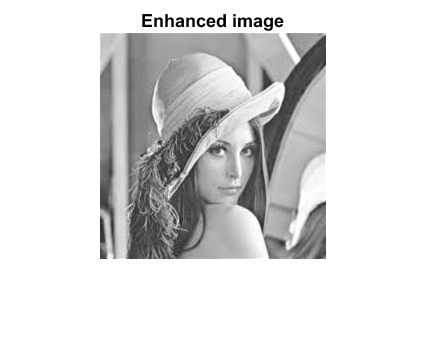
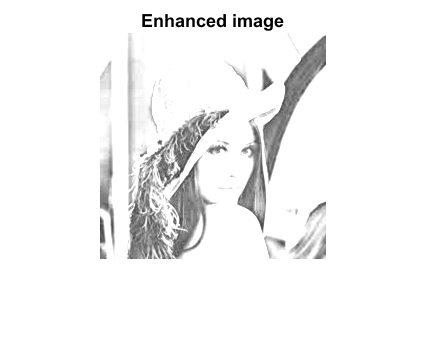
Generate autodoc
Generate new documentation for all functions.

diff --git a/doc/mainPso.html b/doc/mainPso.html
@@ -6,7 +6,7 @@
    <!--
 This HTML was auto-generated from MATLAB code.
 To make changes, update the MATLAB code and republish this document.
-      --><title>mainPso</title><meta name="generator" content="MATLAB 9.0"><link rel="schema.DC" href="http://purl.org/dc/elements/1.1/"><meta name="DC.date" content="2018-12-12"><meta name="DC.source" content="mainPso.m"><style type="text/css">
+      --><title>mainPso</title><meta name="generator" content="MATLAB 9.0"><link rel="schema.DC" href="http://purl.org/dc/elements/1.1/"><meta name="DC.date" content="2018-12-13"><meta name="DC.source" content="mainPso.m"><style type="text/css">
 html,body,div,span,applet,object,iframe,h1,h2,h3,h4,h5,h6,p,blockquote,pre,a,abbr,acronym,address,big,cite,code,del,dfn,em,font,img,ins,kbd,q,s,samp,small,strike,strong,sub,sup,tt,var,b,u,i,center,dl,dt,dd,ol,ul,li,fieldset,form,label,legend,table,caption,tbody,tfoot,thead,tr,th,td{margin:0;padding:0;border:0;outline:0;font-size:100%;vertical-align:baseline;background:transparent}body{line-height:1}ol,ul{list-style:none}blockquote,q{quotes:none}blockquote:before,blockquote:after,q:before,q:after{content:'';content:none}:focus{outine:0}ins{text-decoration:none}del{text-decoration:line-through}table{border-collapse:collapse;border-spacing:0}
 
 html { min-height:100%; margin-bottom:1px; }
@@ -66,8 +66,8 @@ table td { padding:7px 5px; text-align:left; vertical-align:top; border:1px soli
 
 
 
-  </style></head><body><div class="content"><h2>Contents</h2><div><ul><li><a href="#2">MAINPSO</a></li><li><a href="#3">Code</a></li><li><a href="#4">PSO Parameters</a></li><li><a href="#5">Particle initialization</a></li><li><a href="#6">Iterating</a></li></ul></div><pre class="codeinput"><span class="keyword">function</span> mainPso()
-</pre><h2>MAINPSO<a name="2"></a></h2><p>Program to enhance image quality based on Particle Swarm Optimization Alghoritm.</p><div><ul><li>Syntax</li></ul></div><p>[] = MAINPSO()</p><div><ul><li>Examples:</li></ul></div><p>Provide sample usage code here</p><div><ul><li>See also:</li></ul></div><p><a href="enhanceGsclImage.html">ENHANCEGSCLIMAGE</a>, <a href="fitnessFunction.html">FITNESSFUNCTION</a></p><div><ul><li>Author: <b>Dmitrii Leliuhin</b></li><li>Email: <a href="mailto:dleliuhin@mail.ru">dleliuhin@mail.ru</a></li><li>Date: 07/12/2018 11:04:25</li><li>Version: 1.0 $</li><li>Requirements: PCWIN64, MatLab R2016a</li></ul></div><div><ul><li>Warning:</li></ul></div><div><ol><li>Warnings list.</li></ol></div><div><ul><li>TODO:</li></ul></div><div><ol><li>TODO list.</li></ol></div><h2>Code<a name="3"></a></h2><pre class="codeinput"><span class="comment">% Clear command window, workspace, plots.</span>
+  </style></head><body><div class="content"><h2>Contents</h2><div><ul><li><a href="#2">MAINPSO</a></li><li><a href="#3">Code</a></li><li><a href="#4">PSO Parameters</a></li><li><a href="#5">Particle initialization</a></li><li><a href="#6">Iterating</a></li><li><a href="#7">Comparing images</a></li></ul></div><pre class="codeinput"><span class="keyword">function</span> mainPso()
+</pre><h2>MAINPSO<a name="2"></a></h2><p>Program to enhance image quality based on Particle Swarm Optimization Alghoritm.</p><div><ul><li>Syntax</li></ul></div><p>[] = MAINPSO()</p><div><ul><li>Examples:</li></ul></div><p>Provide sample usage code here</p><div><ul><li>See also:</li></ul></div><p><a href="enhanceGsclImage.html">ENHANCEGSCLIMAGE</a>, <a href="fitnessFunction.html">FITNESSFUNCTION</a> <a href="getImageSharpness.html">GETIMAGESHARPNESS</a></p><div><ul><li>Author: <b>Dmitrii Leliuhin</b></li><li>Email: <a href="mailto:dleliuhin@mail.ru">dleliuhin@mail.ru</a></li><li>Date: 07/12/2018 11:04:25</li><li>Version: 1.0 $</li><li>Requirements: PCWIN64, MatLab R2016a</li></ul></div><div><ul><li>Warning:</li></ul></div><div><ol><li>Warnings list.</li></ol></div><div><ul><li>TODO:</li></ul></div><div><ol><li>TODO list.</li></ol></div><h2>Code<a name="3"></a></h2><pre class="codeinput"><span class="comment">% Clear command window, workspace, plots.</span>
 clc;
 clear <span class="string">all</span>;
 close <span class="string">all</span>;
@@ -77,12 +77,12 @@ addpath(strcat(pwd,<span class="string">'\images'</span>), <span class="string">
 </pre><h2>PSO Parameters<a name="4"></a></h2><pre class="codeinput">wmax=0.9; <span class="comment">% Maximal inertia weight.</span>
 wmin=0.4; <span class="comment">% Minimal inertia weight.</span>
 
-c1=2.5; <span class="comment">% Cognitive acceleration coefficient.</span>
-c2=1.5; <span class="comment">% Social acceleration coefficient.</span>
+c1=2.4; <span class="comment">% Cognitive acceleration coefficient.</span>
+c2=1.7; <span class="comment">% Social acceleration coefficient.</span>
 
-swarmSize = 24; <span class="comment">% Population size.</span>
+swarmSize = 40; <span class="comment">% Population size.</span>
 localSize = 3; <span class="comment">% Local window size.</span>
-maxIterValue = 50; <span class="comment">% Maximum number of iterations.</span>
+maxIterValue = 150; <span class="comment">% Maximum number of iterations.</span>
 
 <span class="comment">% Uniformly distributed generated numbers within range [0,1].</span>
 r1 = rand;
@@ -129,7 +129,6 @@ title(<span class="string">'Grayscaled image'</span>, <span class="string">'font
     x(i) = 0;
 <span class="keyword">end</span>
 </pre><h2>Iterating<a name="6"></a></h2><pre class="codeinput"><span class="keyword">for</span> i = 1:maxIterValue
-
     <span class="comment">% Calculating inertia weight.</span>
     w = wmax -(wmax - wmin) * i / maxIterValue;
 
@@ -142,9 +141,15 @@ title(<span class="string">'Grayscaled image'</span>, <span class="string">'font
         fit_val = [fit_val, fitness];
         <span class="comment">% Get max value in the vector of fitvalues.</span>
         maxFit = max(fit_val);
-        <span class="keyword">if</span> (fitness &lt; maxFit)
+
+        <span class="keyword">if</span> (fitness &lt; x(j))
             <span class="comment">% Calculate pbest position.</span>
-            pbest = j;
+            pbest = x(j);
+            <span class="comment">% Add calculated pbest value to specific vector.</span>
+            P_best = [P_best, pbest];
+        <span class="keyword">else</span>
+            <span class="comment">% Calculate pbest position.</span>
+            pbest = fitness;
             <span class="comment">% Add calculated pbest value to specific vector.</span>
             P_best = [P_best, pbest];
         <span class="keyword">end</span>
@@ -154,17 +159,46 @@ title(<span class="string">'Grayscaled image'</span>, <span class="string">'font
 
     <span class="keyword">for</span> j = 1:swarmSize
         <span class="comment">% Updating velocity.</span>
-        v(j) = w*v(j) + c1.*r1.*(pbest - j) + c2.*r2.*(gbest - j);
+        v(j) = w*v(j) + c1.*r1.*(P_best(j) - x(j)) + c2.*r2.*(gbest - x(j));
 
         <span class="comment">% Updating particle position.</span>
         x(j) = x(j) + v(j);
     <span class="keyword">end</span>
+
+    P_best = [];
 <span class="keyword">end</span>
 
+<span class="comment">% Plot enhanced image</span>
 figure;
 imshow(E);
 title(<span class="string">'Enhanced image'</span>, <span class="string">'fontsize'</span>, 10);
-</pre><img vspace="5" hspace="5" src="mainPso_03.png" style="width:320px;height:260px;" alt=""> <pre class="codeinput"><span class="keyword">end</span>
+</pre><img vspace="5" hspace="5" src="mainPso_03.png" style="width:320px;height:260px;" alt=""> <h2>Comparing images<a name="7"></a></h2><pre class="codeinput">fprintf(<span class="string">'Sharpness of Original image: %5.3f \n'</span>, <span class="keyword">...</span>
+        mean(getImageSharpness(I)));
+fprintf(<span class="string">'Brightness of Original image: %5.3f \n'</span>, mean2(I));
+fprintf(<span class="string">'Contrast of Original image: %5.3f \n\n'</span>, max(I(:)) - min(I(:)));
+
+fprintf(<span class="string">'Sharpness of Grayscaled image: %5.3f \n'</span>, <span class="keyword">...</span>
+        getImageSharpness(G));
+fprintf(<span class="string">'Brightness of Grayscaled image: %5.3f \n'</span>, mean2(G));
+fprintf(<span class="string">'Contrast of Grayscaled image: %5.3f \n\n'</span>, max(G(:)) - min(G(:)));
+
+fprintf(<span class="string">'Sharpness of Enhanced image: %5.3f \n'</span>, <span class="keyword">...</span>
+        getImageSharpness(E));
+fprintf(<span class="string">'Brightness of Enhanced image: %5.3f \n'</span>, mean2(E));
+fprintf(<span class="string">'Contrast of Enhanced image: %5d \n\n'</span>, max(E(:)) - min(E(:)));
+</pre><pre class="codeoutput">Sharpness of Original image: 3.098 
+Brightness of Original image: 127.915 
+Contrast of Original image: 255.000 
+
+Sharpness of Grayscaled image: 9.380 
+Brightness of Grayscaled image: 123.739 
+Contrast of Grayscaled image: 213.000 
+
+Sharpness of Enhanced image: 0.082 
+Brightness of Enhanced image: 1.143 
+Contrast of Enhanced image: 1.888147e+00 
+
+</pre><pre class="codeinput"><span class="keyword">end</span>
 </pre><p class="footer"><br><a href="http://www.mathworks.com/products/matlab/">Published with MATLAB&reg; R2016a</a><br></p></div><!--
 ##### SOURCE BEGIN #####
 function mainPso()
@@ -184,6 +218,7 @@ function mainPso()
 % 
 % <enhanceGsclImage.html ENHANCEGSCLIMAGE>, 
 % <fitnessFunction.html FITNESSFUNCTION>
+% <getImageSharpness.html GETIMAGESHARPNESS>
 % 
 % * Author: *Dmitrii Leliuhin*
 % * Email: dleliuhin@mail.ru 
@@ -215,12 +250,12 @@ addpath(strcat(pwd,'\images'), '-end');
 wmax=0.9; % Maximal inertia weight.
 wmin=0.4; % Minimal inertia weight.
 
-c1=2.5; % Cognitive acceleration coefficient.
-c2=1.5; % Social acceleration coefficient.
+c1=2.4; % Cognitive acceleration coefficient.
+c2=1.7; % Social acceleration coefficient.
 
-swarmSize = 24; % Population size.
+swarmSize = 40; % Population size.
 localSize = 3; % Local window size.
-maxIterValue = 50; % Maximum number of iterations.
+maxIterValue = 150; % Maximum number of iterations.
 
 % Uniformly distributed generated numbers within range [0,1].
 r1 = rand;
@@ -272,7 +307,6 @@ end
 
 %% Iterating
 for i = 1:maxIterValue
-    
     % Calculating inertia weight.
     w = wmax -(wmax - wmin) * i / maxIterValue;
     
@@ -285,9 +319,15 @@ for i = 1:maxIterValue
         fit_val = [fit_val, fitness];
         % Get max value in the vector of fitvalues.
         maxFit = max(fit_val);
-        if (fitness < maxFit)
+        
+        if (fitness < x(j))
             % Calculate pbest position.
-            pbest = j;
+            pbest = x(j);
+            % Add calculated pbest value to specific vector.
+            P_best = [P_best, pbest];
+        else
+            % Calculate pbest position.
+            pbest = fitness;
             % Add calculated pbest value to specific vector.
             P_best = [P_best, pbest];
         end
@@ -297,16 +337,35 @@ for i = 1:maxIterValue
     
     for j = 1:swarmSize
         % Updating velocity.
-        v(j) = w*v(j) + c1.*r1.*(pbest - j) + c2.*r2.*(gbest - j);
+        v(j) = w*v(j) + c1.*r1.*(P_best(j) - x(j)) + c2.*r2.*(gbest - x(j));
         
         % Updating particle position.
         x(j) = x(j) + v(j);
     end
+    
+    P_best = [];
 end
 
+% Plot enhanced image
 figure;
 imshow(E);
 title('Enhanced image', 'fontsize', 10);
+
+%% Comparing images
+fprintf('Sharpness of Original image: %5.3f \n', ...
+        mean(getImageSharpness(I)));
+fprintf('Brightness of Original image: %5.3f \n', mean2(I));
+fprintf('Contrast of Original image: %5.3f \n\n', max(I(:)) - min(I(:)));
+
+fprintf('Sharpness of Grayscaled image: %5.3f \n', ...
+        getImageSharpness(G));
+fprintf('Brightness of Grayscaled image: %5.3f \n', mean2(G));
+fprintf('Contrast of Grayscaled image: %5.3f \n\n', max(G(:)) - min(G(:)));
+
+fprintf('Sharpness of Enhanced image: %5.3f \n', ...
+        getImageSharpness(E));
+fprintf('Brightness of Enhanced image: %5.3f \n', mean2(E));
+fprintf('Contrast of Enhanced image: %5d \n\n', max(E(:)) - min(E(:)));
 
 end
 

diff --git a/doc/getImageSharpness.html b/doc/getImageSharpness.html
@@ -1,0 +1,134 @@
+
+<!DOCTYPE html
+  PUBLIC "-//W3C//DTD HTML 4.01 Transitional//EN">
+<html><head>
+      <meta http-equiv="Content-Type" content="text/html; charset=utf-8">
+   <!--
+This HTML was auto-generated from MATLAB code.
+To make changes, update the MATLAB code and republish this document.
+      --><title>getImageSharpness</title><meta name="generator" content="MATLAB 9.0"><link rel="schema.DC" href="http://purl.org/dc/elements/1.1/"><meta name="DC.date" content="2018-12-13"><meta name="DC.source" content="getImageSharpness.m"><style type="text/css">
+html,body,div,span,applet,object,iframe,h1,h2,h3,h4,h5,h6,p,blockquote,pre,a,abbr,acronym,address,big,cite,code,del,dfn,em,font,img,ins,kbd,q,s,samp,small,strike,strong,sub,sup,tt,var,b,u,i,center,dl,dt,dd,ol,ul,li,fieldset,form,label,legend,table,caption,tbody,tfoot,thead,tr,th,td{margin:0;padding:0;border:0;outline:0;font-size:100%;vertical-align:baseline;background:transparent}body{line-height:1}ol,ul{list-style:none}blockquote,q{quotes:none}blockquote:before,blockquote:after,q:before,q:after{content:'';content:none}:focus{outine:0}ins{text-decoration:none}del{text-decoration:line-through}table{border-collapse:collapse;border-spacing:0}
+
+html { min-height:100%; margin-bottom:1px; }
+html body { height:100%; margin:0px; font-family:Arial, Helvetica, sans-serif; font-size:10px; color:#000; line-height:140%; background:#fff none; overflow-y:scroll; }
+html body td { vertical-align:top; text-align:left; }
+
+h1 { padding:0px; margin:0px 0px 25px; font-family:Arial, Helvetica, sans-serif; font-size:1.5em; color:#d55000; line-height:100%; font-weight:normal; }
+h2 { padding:0px; margin:0px 0px 8px; font-family:Arial, Helvetica, sans-serif; font-size:1.2em; color:#000; font-weight:bold; line-height:140%; border-bottom:1px solid #d6d4d4; display:block; }
+h3 { padding:0px; margin:0px 0px 5px; font-family:Arial, Helvetica, sans-serif; font-size:1.1em; color:#000; font-weight:bold; line-height:140%; }
+
+a { color:#005fce; text-decoration:none; }
+a:hover { color:#005fce; text-decoration:underline; }
+a:visited { color:#004aa0; text-decoration:none; }
+
+p { padding:0px; margin:0px 0px 20px; }
+img { padding:0px; margin:0px 0px 20px; border:none; }
+p img, pre img, tt img, li img, h1 img, h2 img { margin-bottom:0px; } 
+
+ul { padding:0px; margin:0px 0px 20px 23px; list-style:square; }
+ul li { padding:0px; margin:0px 0px 7px 0px; }
+ul li ul { padding:5px 0px 0px; margin:0px 0px 7px 23px; }
+ul li ol li { list-style:decimal; }
+ol { padding:0px; margin:0px 0px 20px 0px; list-style:decimal; }
+ol li { padding:0px; margin:0px 0px 7px 23px; list-style-type:decimal; }
+ol li ol { padding:5px 0px 0px; margin:0px 0px 7px 0px; }
+ol li ol li { list-style-type:lower-alpha; }
+ol li ul { padding-top:7px; }
+ol li ul li { list-style:square; }
+
+.content { font-size:1.2em; line-height:140%; padding: 20px; }
+
+pre, code { font-size:12px; }
+tt { font-size: 1.2em; }
+pre { margin:0px 0px 20px; }
+pre.codeinput { padding:10px; border:1px solid #d3d3d3; background:#f7f7f7; }
+pre.codeoutput { padding:10px 11px; margin:0px 0px 20px; color:#4c4c4c; }
+pre.error { color:red; }
+
+@media print { pre.codeinput, pre.codeoutput { word-wrap:break-word; width:100%; } }
+
+span.keyword { color:#0000FF }
+span.comment { color:#228B22 }
+span.string { color:#A020F0 }
+span.untermstring { color:#B20000 }
+span.syscmd { color:#B28C00 }
+
+.footer { width:auto; padding:10px 0px; margin:25px 0px 0px; border-top:1px dotted #878787; font-size:0.8em; line-height:140%; font-style:italic; color:#878787; text-align:left; float:none; }
+.footer p { margin:0px; }
+.footer a { color:#878787; }
+.footer a:hover { color:#878787; text-decoration:underline; }
+.footer a:visited { color:#878787; }
+
+table th { padding:7px 5px; text-align:left; vertical-align:middle; border: 1px solid #d6d4d4; font-weight:bold; }
+table td { padding:7px 5px; text-align:left; vertical-align:top; border:1px solid #d6d4d4; }
+
+
+
+
+
+  </style></head><body><div class="content"><h2>Contents</h2><div><ul><li><a href="#2">GETIMAGESHARPNESS</a></li><li><a href="#3">Code</a></li></ul></div><pre class="codeinput"><span class="keyword">function</span> [oSharpness] = getImageSharpness(iImage)
+</pre><h2>GETIMAGESHARPNESS<a name="2"></a></h2><p>Function for calculating sharpness of image.</p><div><ul><li>Syntax</li></ul></div><p>[OSHARPNESS] = GETIMAGESHARPNESS(IIMAGE)</p><div><ul><li>Input</li></ul></div><p>-- iImage - input iImage with different dimension.</p><div><ul><li>Output</li></ul></div><p>-- oSharpness - calculated sharpnes of iImage.</p><div><ul><li>Examples:</li></ul></div><p>Provide sample usage code here</p><div><ul><li>See also:</li></ul></div><p>List related files here</p><div><ul><li>Author: <b>Dmitrii Leliuhin</b></li><li>Email: <a href="mailto:dleliuhin@mail.ru">dleliuhin@mail.ru</a></li><li>Date: 13/12/2018 01:17:39</li><li>Version: 2.0 $</li><li>Requirements: PCWIN64, MatLab R2016a</li></ul></div><div><ul><li>Warning:</li></ul></div><div><ol><li>Warnings list.</li></ol></div><div><ul><li>TODO:</li></ul></div><div><ol><li>TODO list.</li></ol></div><h2>Code<a name="3"></a></h2><pre class="codeinput"><span class="comment">% Find the gradient Cartesian coordinates of image.</span>
+[Gx, Gy] = gradient(double(iImage));
+
+<span class="comment">% Calculate intermediate function.</span>
+S = sqrt(Gx.*Gx+Gy.*Gy);
+
+<span class="comment">% Calculate sharpness of image.</span>
+oSharpness = sum(sum(S))./(numel(Gx));
+</pre><pre class="codeinput"><span class="keyword">end</span>
+</pre><p class="footer"><br><a href="http://www.mathworks.com/products/matlab/">Published with MATLAB&reg; R2016a</a><br></p></div><!--
+##### SOURCE BEGIN #####
+function [oSharpness] = getImageSharpness(iImage)
+%% GETIMAGESHARPNESS 
+% Function for calculating sharpness of image.
+% 
+% * Syntax 
+% 
+% [OSHARPNESS] = GETIMAGESHARPNESS(IIMAGE)
+% 
+% * Input 
+% 
+% REPLACE_WITH_DASH_DASH iImage - input iImage with different dimension.
+% 
+% * Output 
+% 
+% REPLACE_WITH_DASH_DASH oSharpness - calculated sharpnes of iImage.
+% 
+% * Examples: 
+% 
+% Provide sample usage code here
+% 
+% * See also: 
+% 
+% List related files here 
+% 
+% * Author: *Dmitrii Leliuhin*
+% * Email: dleliuhin@mail.ru 
+% * Date: 13/12/2018 01:17:39 
+% * Version: 2.0 $ 
+% * Requirements: PCWIN64, MatLab R2016a 
+% 
+% * Warning: 
+% 
+% # Warnings list. 
+% 
+% * TODO: 
+% 
+% # TODO list. 
+% 
+
+%% Code 
+
+% Find the gradient Cartesian coordinates of image.
+[Gx, Gy] = gradient(double(iImage));
+
+% Calculate intermediate function.
+S = sqrt(Gx.*Gx+Gy.*Gy);
+
+% Calculate sharpness of image.
+oSharpness = sum(sum(S))./(numel(Gx));
+
+end
+
+##### SOURCE END #####
+--></body></html>

diff --git a/getImageSharpness.m b/getImageSharpness.m
@@ -4,7 +4,7 @@ function [oSharpness] = getImageSharpness(iImage)
 % 
 % * Syntax 
 % 
-%	[OSHARPNESS] = GETIMAGESHARPNESS(IIMAGE)
+% [OSHARPNESS] = GETIMAGESHARPNESS(IIMAGE)
 % 
 % * Input 
 % 
